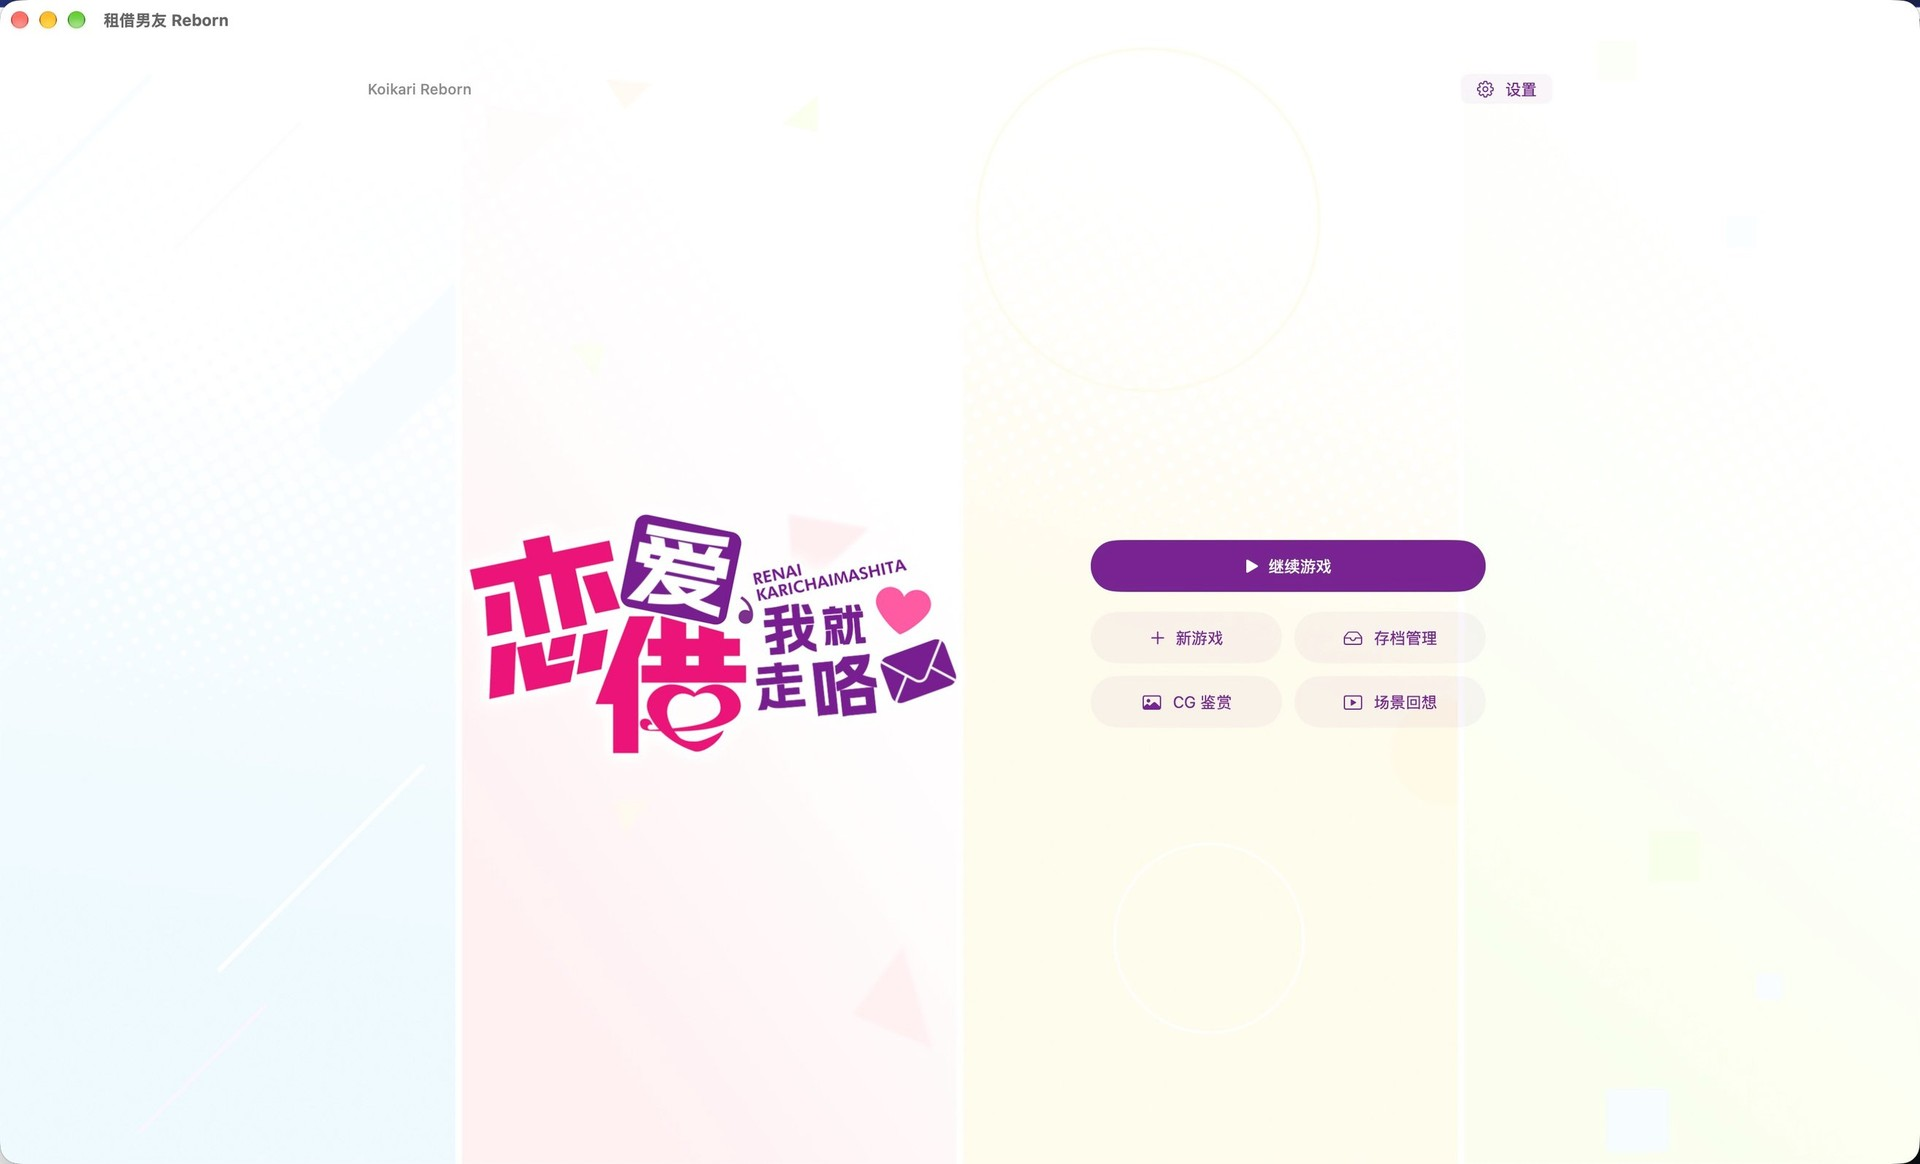
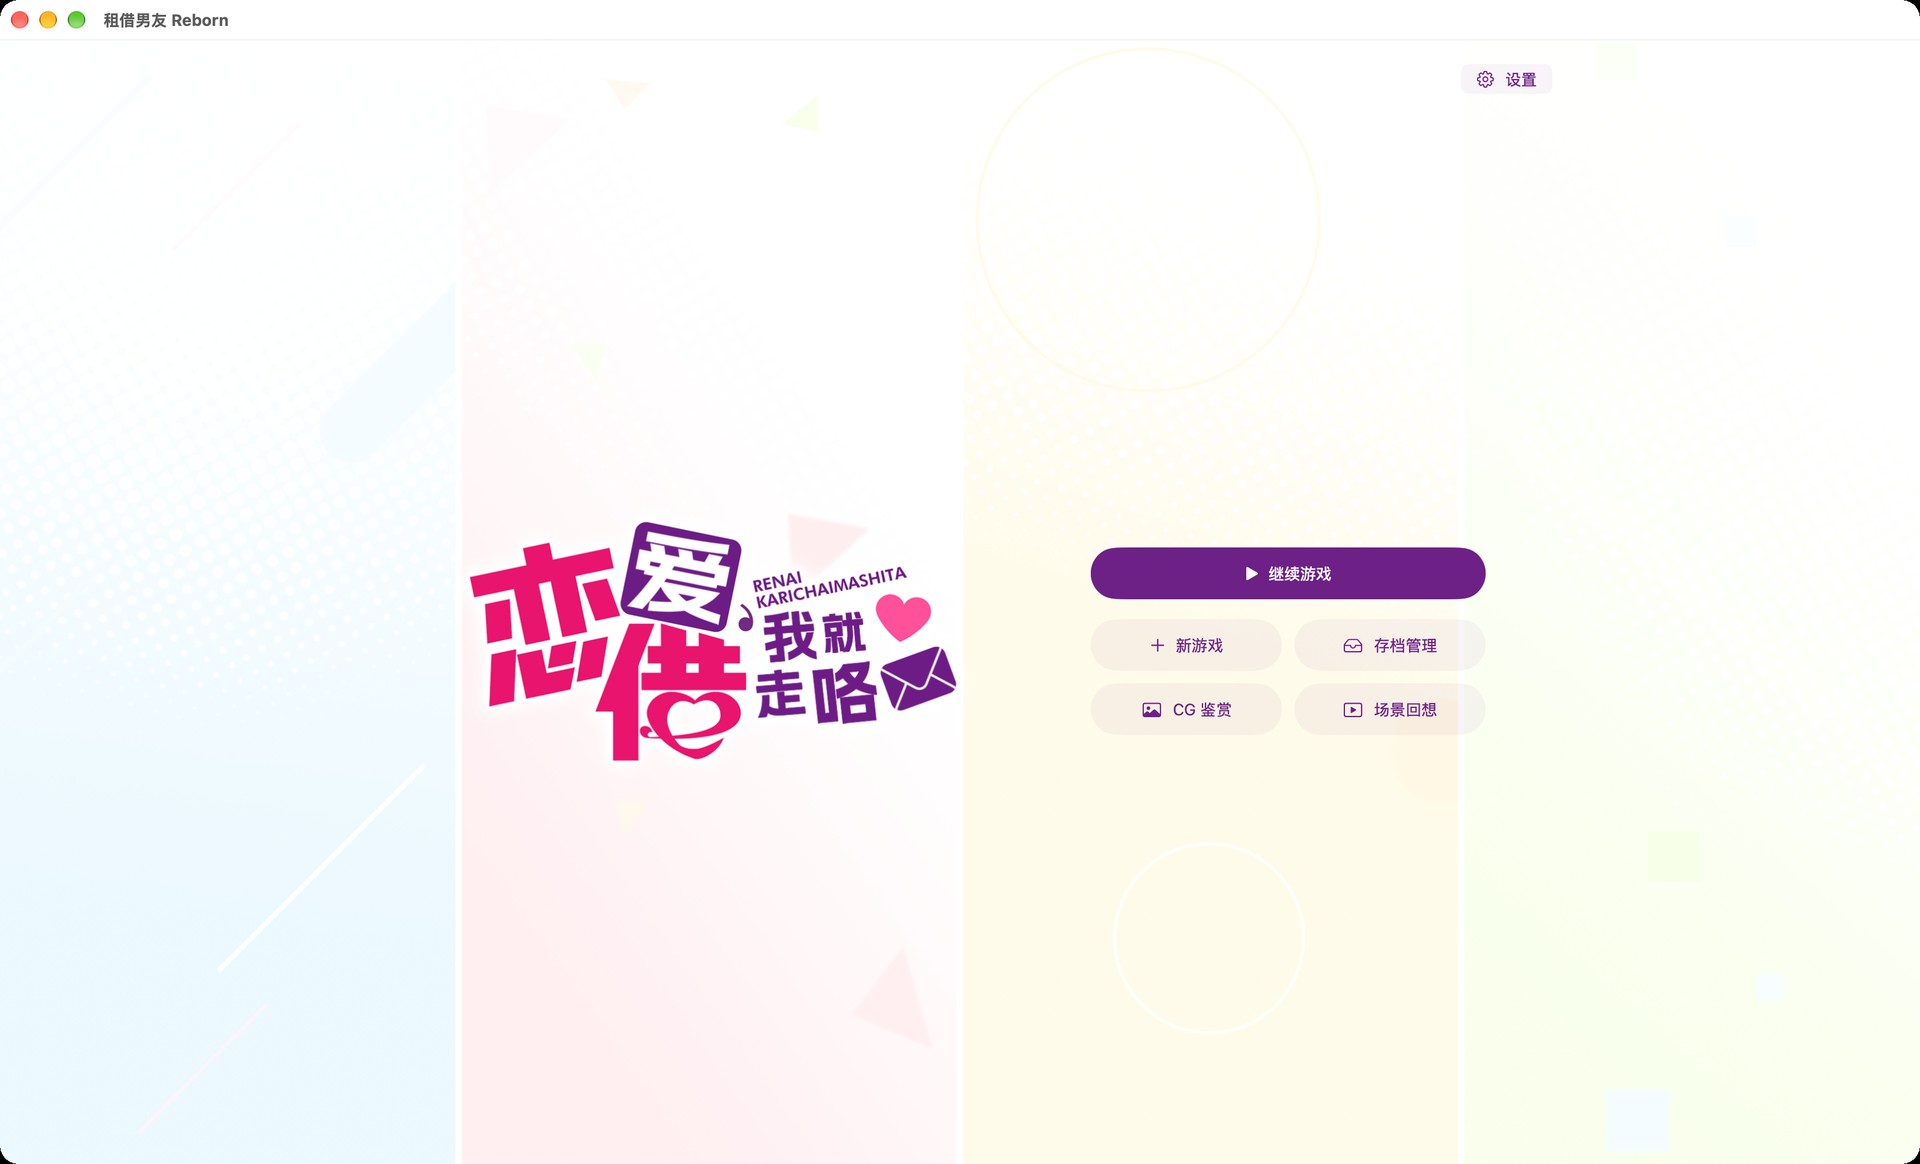
Refresh README screenshots for the build 18 UI
Replace the title, dialogue and character-introduction captures with build 18 visuals: no home branding, the narrower 22 pt dialogue box, and the light purple-accented introduction card. Update the screenshot caption and character-introduction alt text.

diff --git a/README.md b/README.md
@@ -25,7 +25,7 @@
 
 ## 界面预览
 
-用户提供的 macOS 运行截图（截取自 build 16），点击可查看大图。build 17 已更新对白框、人物介绍和鉴赏界面，实际效果以运行中的应用为准。截图中的原作画面归各自权利人所有，不属于本项目的 MIT 授权范围。
+用户提供的 macOS 运行截图（截取自 build 18），点击可查看大图。截图中的原作画面归各自权利人所有，不属于本项目的 MIT 授权范围。
 
 <p align="center">
   <a href=".github/assets/screenshots/title-screen.jpg"><img src=".github/assets/screenshots/title-screen.jpg" alt="游戏首页：继续游戏、新游戏、存档管理、CG 鉴赏与场景回想" width="100%"></a>
@@ -35,7 +35,7 @@
 <table>
   <tr>
     <td width="50%" align="center"><a href=".github/assets/screenshots/dialogue.jpg"><img src=".github/assets/screenshots/dialogue.jpg" alt="剧情对话：角色画面、对白框及阅读工具栏" width="100%"></a><br><sub>剧情对话</sub></td>
-    <td width="50%" align="center"><a href=".github/assets/screenshots/character-introduction.jpg"><img src=".github/assets/screenshots/character-introduction.jpg" alt="人物介绍：空路椿的介绍画面" width="100%"></a><br><sub>人物介绍</sub></td>
+    <td width="50%" align="center"><a href=".github/assets/screenshots/character-introduction.jpg"><img src=".github/assets/screenshots/character-introduction.jpg" alt="人物介绍：角色登场页的浅色对白卡与轻触继续提示" width="100%"></a><br><sub>人物介绍</sub></td>
   </tr>
 </table>
 
